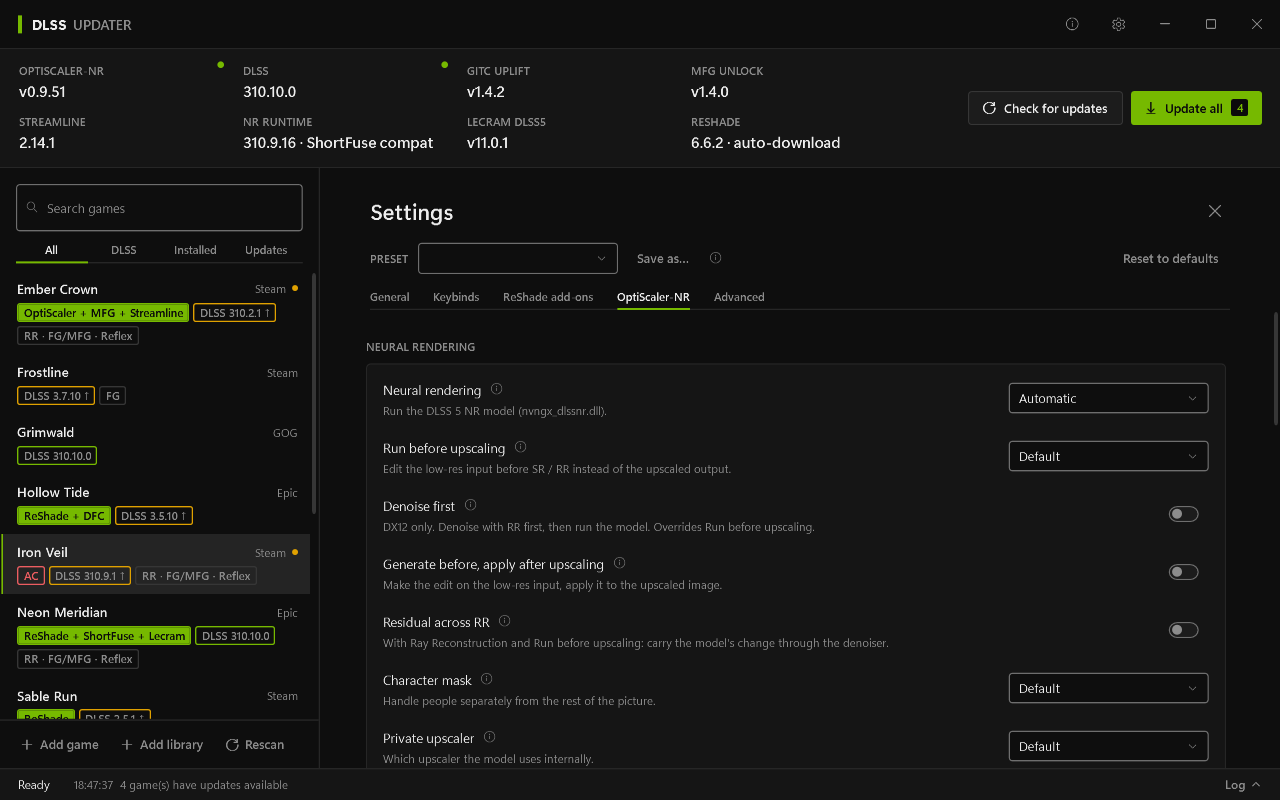
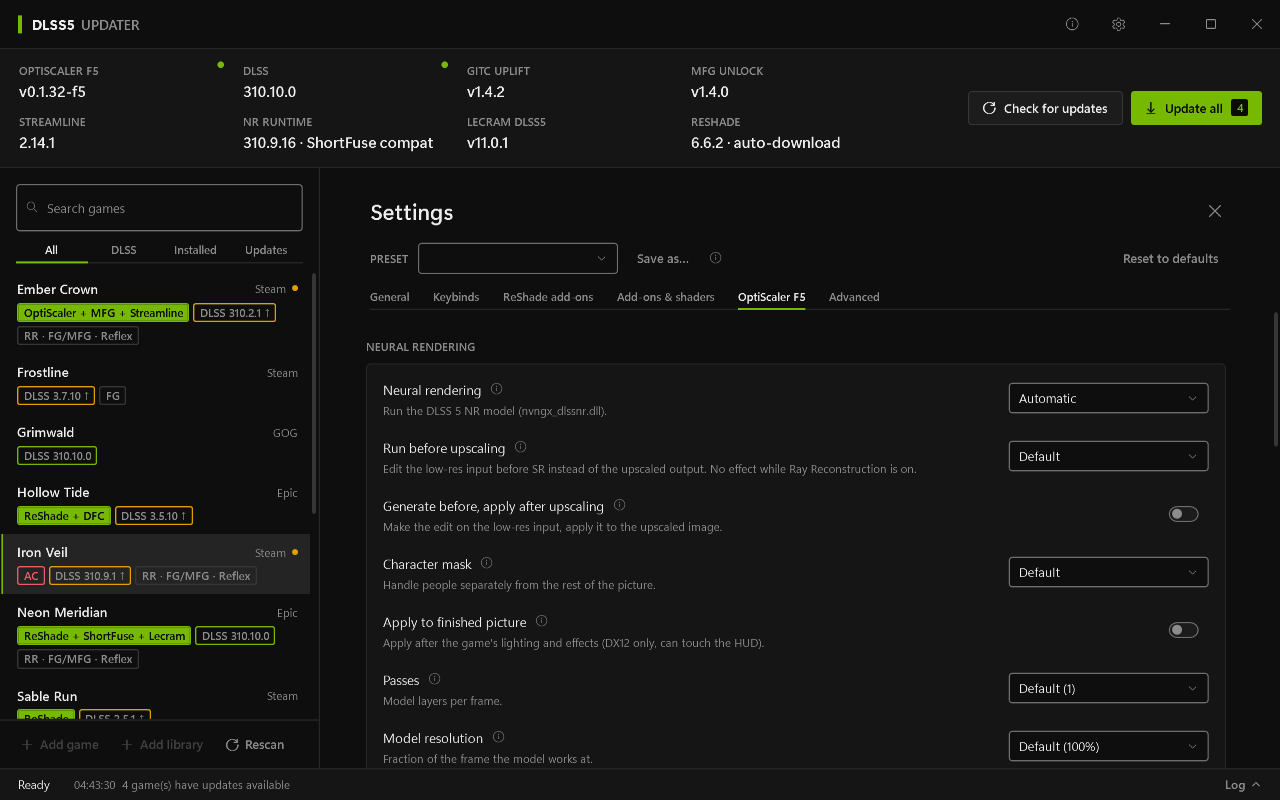
Retake the README screenshots for 3.0.0

diff --git a/README.md b/README.md
@@ -10,7 +10,7 @@ Formerly called DLSS Updater. Updating keeps your settings: the app moves `%Loca
 
 ## Screenshots
 
-![DLSS5 Updater with the game list on the left and one game selected. The top bar shows the latest version of each component next to Check for updates and Update all. The selected game lists its components with installed and latest versions and a switch for each.](docs/images/games.png)
+![DLSS5 Updater with the game list on the left and one game selected. The top bar shows the latest version of each component next to Check for updates and Update all. The selected game shows what works in it, with a short reason for each option and a Select button.](docs/images/games.png)
 
 The game list and one game's components. Badges show what each game has installed, and an arrow marks an outdated DLSS version.
 
@@ -18,7 +18,7 @@ The game list and one game's components. Badges show what each game has installe
 
 Settings for one game. Anything you don't change here follows your global settings.
 
-![The Settings page on the OptiScaler-NR tab, with neural rendering options, each with a short explanation and a help button.](docs/images/settings.png)
+![The Settings page on the OptiScaler F5 tab, with neural rendering options, each with a short explanation and a help button.](docs/images/settings.png)
 
 Settings for all games. Every option has a short explanation, and the help button next to it tells you more.
 
